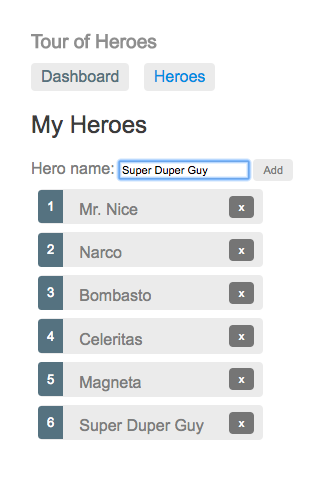
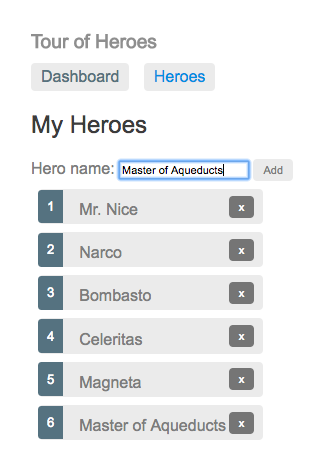
tutorial updates

Changed region(s): [[0.0898, 0.2112, 0.8683, 0.9655], [0.0898, 0.0603, 0.479, 0.181], [0.4491, 0.1207, 0.6287, 0.181]]

diff --git a/source/docs/tut/storing-data.md b/source/docs/tut/storing-data.md
@@ -1,8 +1,35 @@
 # 3. Storing Data in a Database
 
-In the previous exercise, we loaded some heroes into the database our application reads from. Now, we will allow our application to store, delete and modify heroes in the database.
+In the previous exercise, we loaded some heroes into the database our application reads from. Now, we will allow our application to store, delete and modify heroes in the database. Before we embark on this part of the journey, it's important that we understand how an HTTP API is intended to work.
 
-We'll add a method to our `HeroesController` to handle the `POST /heroes` operation. It will add a new row to the heroes table in our database. It will then return that hero in the response body. In `heroes_controller.dart`, add the following operation method:
+## HTTP Resources and Methods
+
+The [HTTP specification](https://tools.ietf.org/html/rfc7231) defines the concept of a *resource*. A resource can be anything - a hero, a bank account, a light switch in your home, a temperature sensor in Antarctica, etc. Some of these things are physical objects (the light switch), and some are digital; they are all still resources. An HTTP server application is an interface to these resources; a client requests that something be done with a resource, and the server finds a way to get it done.
+
+Resources are identified with a URI. A URI *universally identifies* a resource: it has the address of a server to connect to, and a path that identifies the resource on that server. When writing Aqueduct applications, we don't care much about the server part of a URL - the internet figures out that part. What we do care about is the path of the URL - like `/heroes`.
+
+An application use the URL path to determine which resource the request wants to work with. Right now, our application works with hero resources. A request with the path `/heroes/1` wants to do something with an individual hero (that is identified by the number `1`). A request with the path `/heroes` will act on the entire collection of heroes.
+
+These actions are primarily described by the request method (like GET, POST, OR DELETE). Each of these methods has a general meaning that describes an action that can be applied to a resource. For example, a `GET /heroes` means "get me all of the hero resources". The meaning for each of these methods are as follows:
+
+- GET: returns a collection of some resource or an individual resource
+- POST: inserts or appends a resource to a collection of some resource; a representation of the resource is in the request body
+- PUT: replaces a resource with the contents of the request body (or in some cases, replaces the entire collection of some resource)
+- DELETE: deletes a resource (or in some cases, deletes the entire collection of some resource)
+
+It turns out, we can create a lot of incredible behavior by just combining these methods and a request path. More importantly, by following these specifications, client applications can use generic libraries to access any HTTP API with very little effort. This allows us to create complex systems that are easily made available to a browser, mobile phone or any other internet-connected device.
+
+## Inserting Data
+
+We'll start by adding behavior that allows for new heroes to be inserted into the database. Following our previous discussion, the HTTP request must take the form `POST /heroes` - we are appending a new hero to the collection of heroes. This request will contain the JSON representation of a hero in its body, for example:
+
+```json
+{
+  "name": "Master of Aqueducts"
+}
+```
+
+Our `HeroesController` will handle this operation. In general, a single endpoint controller should handle every operation on a resource collection and its individual resources. In `heroes_controller.dart`, add the following operation method:
 
 ```dart
 @Operation.post()
@@ -11,41 +38,76 @@ Future<Response> createHero() async {
   final query = new Query<Hero>(context)
     ..values.name = body['name'];
 
-  final insertedHero = await query.insert(context);
+  final insertedHero = await query.insert();
 
   return new Response.ok(insertedHero);
 }
 ```
 
-From this code, we expect that the request body is:
+This operation method grabs the hero from the request's body, constructs a query that inserts that hero, and then returns it in the response.
 
-```json
-{
-  "name": "Super Duper Programmer"
-}
-```
-
-The use of a `Query<Hero>` is very similar to the previous chapter, except that we populate its `values` property and invoke the `insert()` execution method. Like `where`, the `values` property of a query is an instance of its generic type (`Hero`). Any property of set on `values` will be sent to the database in the insert command. The generated SQL for the above would be something like:
+Using a `Query<Hero>` to insert a row isn't very different than using one to fetch rows. When inserting a row, we execute `query.insert()` instead of `query.fetch()`. Instead of applying matchers to `query.where`, we set the properties of `query.value`. Like `where`, `values` is also an instance of  `Hero`. Each property we set on `values` is sent in an `INSERT` command to the database. The generated SQL for the above would be something like:
 
 ```sql
 INSERT INTO _Hero (name) VALUES ('Hero Name');
 ```
 
-We get the values for the query from the body of the request. (Recall that `request` is a property of all `RESTController` subclasses and it contains the request object currently being handled.) By invoking `asMap()` on `request.body`, we both obtain the request body as a `Map` and also ensure that the body is in fact a `Map` (otherwise, an exception would be thrown and an error response would be sent.)
+The database automatically generates a value for the `id` property of a `Hero`. This is because `id` has a `primaryKey` annotation that marks it as "auto-incrementing". (See [the API reference for Column](https://www.dartdocs.org/documentation/aqueduct/latest/aqueduct/Column-class.html) for details and options.) When the row has been successfully inserted, a new `Hero` object is returned - containing any values that were generated by the database.
 
-!!! note "Autoincrementing Primary Keys"
-    Notice that we don't include an `id` in the query - it will automatically be generated by the database. This is the default behavior when a `ManagedObject<T>` property is annotated with `@primaryKey`. See [modeling data](../db/modeling_data.md) for other options.
+Re-run your application. In the browser application, click on `Heroes` near the top of the page. Then, enter a name into the `Hero name:` field and click `Add`. The new hero will appear. You can re-run the application and that hero will still be available, because it has been stored in the database on your machine.
 
-By default, `insert()` returns the inserted `Hero` object. This is valuable when using auto-incremented primary keys (or any auto-incremented value), because the returned `Hero` now has values for that property provided by the database. Our operation method returns this newly created `Hero` with its `id` in the response body.
+![Insert Hero](../img/run3.png)
 
-## Request Bodies and Body Bindings
+!!! tip "Sub-resources"
+    We mentioned that a single controller should handle every operation for a resource collection and its individual resources. Some resources are complex enough that they can have sub-resources. For example, an organization of heroes (like the X-Men or Fantastic Four) contains heroes, but it might also contain buildings and equipment owned by the organization. The heroes, buildings and equipment are sub-resources of an organization.  Each sub-resource should have its own route and controller instead of trying to shove everything into a single route and controller. See the following code snippet for an example.
 
------
------
------
+```dart
+@override
+Controller get entryPoint {
+  return new Router()
+    ..route("/organizations/[:orgName]")
+      .link(() => new OrganizationController());
+    ..route("/organizations/:orgName/heroes/[:heroID]")
+      .link(() => new OrgHeroesController());
+    ..route("/organizations/:orgName/buildings/[:buildingID]")
+      .link(() => new OrgBuildingController());
+}
+```    
 
-!!! note "Other Content-Types"
-    Aqueduct can decode JSON and form data by default. For other content types, see the [API reference for HTTPCodecRepository](https://www.dartdocs.org/documentation/aqueduct/latest/aqueduct/HTTPCodecRepository-class.html).
+## Request and Response Bodies
+
+So far, we've largely glossed over how request and response bodies are handled, and now is a good time to dig in to this topic.
+
+When we create a response, we specify its status code and optionally its headers and body. For example, the following creates a response with a status code of 200 OK with an empty list body:
+
+```dart
+new Response.ok([])
+```
+
+The first argument to `Response.ok` is a *body object*. When the response is sent to a client, the body object is encoded according to the `contentType` of the response. By default, the content type of a response is `application/json` - so by default, all of our response body objects have been JSON-encoded into the response body.
+
+!!! note "Other Response Constructors"
+    The default constructor for a `Response` takes a status code, map of headers and a body object - e.g., `Response(200, {}, "body")`. There are many named constructors for `Response`, like `Response.ok` or `Response.notFound`. These constructors set the status code and expose parameters that are intended for that type of response. For example, a 200 OK response should have a body, so `Response.ok` has a required body object argument. See [the API reference for Response](https://www.dartdocs.org/documentation/aqueduct/latest/aqueduct/Response-class.html) for possible constructors and properties of a response.
+
+As long as an object can be JSON encoded, it can be the body object of a response with JSON content-type. In general, this includes objects that are strings, integers, doubles, and maps and lists that contain those types (you can verify if your object is encodable by invoking `JSON.encode` from `dart:convert`).
+
+To change how a body object is encoded, you set the `contentType` of the response. For example,
+
+```dart
+new Response.ok([])
+  ..contentType = new ContentType("application", "xml");
+```
+
+The default supported content types are JSON, `application/x-www-form-urlencoded` and all `text/*` types. To encode other content-types, you must register a `Codec` with `HTTPCodecRepository.`
+
+These codecs are are also responsible for decoding request bodies. The body of a request is accessible through the `Request.body` property.
+
+----
+----
+----
+
+It also includes types that implement `HTTPSerializable`, which `ManagedObject<T>` does.
+
 
 
 

diff --git a/source/docs/tut/getting-started.md b/source/docs/tut/getting-started.md
@@ -1,7 +1,5 @@
 # 1. Getting Started
 
-### Purpose: Become familiar with how Aqueduct works by building an application.
-
 By the end of this tutorial, you will have created an Aqueduct application that serves fictional heroes from a PostgreSQL database. You will learn the following:
 
 - Run an Aqueduct application
@@ -46,8 +44,8 @@ In IntelliJ's project view, locate the `lib` directory; this is where your proje
 
 In your browser, navigate to [http://aqueduct-tutorial.stablekernel.io](http://aqueduct-tutorial.stablekernel.io). This browser application is a 'Hero Manager' - it allows a user to view, create, delete and update heroes. (It is a slightly modified version of the [AngularDart Tour of Heroes Tutorial](https://webdev.dartlang.org/angular/tutorial).) It will make HTTP requests to `http://localhost:8888` to fetch and manipulate hero data. The application you will build in this tutorial respond to those requests.
 
-!!! warning "HTTP vs HTTPS"
-    The browser application is served over HTTP so that it can access your Aqueduct application when it runs locally on your machine. Your browser may warn you about navigating to an insecure webpage, because it is in fact insecure. You can view the code for this browser application [here](https://github.com/stablekernel/tour-of-heroes-dart). You can run the browser application yourself if you are concerned about that.
+!!! warning "Running the Browser Application Locally"
+    The browser application is served over HTTP so that it can access your Aqueduct application when it runs locally on your machine. Your browser may warn you about navigating to an insecure webpage, because it is in fact insecure. You can view the code for this browser application [here](https://github.com/stablekernel/tour-of-heroes-dart) so that you can run the browser application from your local machine if you prefer.
 
 In this first chapter, you will write code to handle two requests: one to get a list of heroes, and the other to get a single hero by its identifier. These two requests take the following form:
 
@@ -62,7 +60,7 @@ Controllers are linked together in an *application channel*. An application chan
 
 ![ApplicationChannel entryPoint](../img/entrypoint.png)
 
-Application channels are defined by creating a subclass of `ApplicationChannel`. This subclass is declared in `lib/channel.dart`. Navigate to that file and notice the implementation of `entryPoint`:
+Application channels are defined by creating a subclass of `ApplicationChannel`. This subclass is declared in `lib/channel.dart`. Navigate to that file and note the current implementation of `ApplicationChannel.entryPoint`:
 
 ```dart
   @override
@@ -79,7 +77,7 @@ Application channels are defined by creating a subclass of `ApplicationChannel`.
   }
 ```
 
-The `entryPoint` of a channel is the first controller to receive every request in an application. In our case, the entry point is a `Router` (because we return it from this method). Controllers are linked to the router. The template has one linked function controller that is called when a request's path is `/example`. We need to link a yet-to-be-created `HeroesController` to the router when the path is `/heroes`.
+The `entryPoint` of a channel is the first controller to receive every request in an application. In our case, the entry point is a `Router` (because we return it from this method). Controllers are linked to the router; the template has one linked function controller that is called when a request's path is `/example`. We need to link a yet-to-be-created `HeroesController` to the router when the path is `/heroes`.
 
 First, we need to define `HeroesController` and how it handles requests. Create a new file in `lib/controller/heroes_controller.dart` and add the following code (you may need to create the subdirectory `lib/controller/`):
 
@@ -225,7 +223,7 @@ Future<RequestOrResponse> handle(Request request) async {
       return new Response.notFound();
     }
 
-    return new Response.ok(heroes[index]);
+    return new Response.ok(hero);
   }
 
   return new Response.ok(heroes);

diff --git a/source/docs/tut/executing-queries.md b/source/docs/tut/executing-queries.md
@@ -6,7 +6,7 @@ We will continue to build on the last chapter's project, `heroes`, by storing ou
 
 A relational database management system (like PostgreSQL or MySQL) stores its data in the form of tables. A table represents some sort of entity - like a person or a bank account. Each table has columns that describe the attributes of that entity - like a name or a balance. Every row in a table is an instance of that entity - like a single person named Bob or a bank account.
 
-In an object-oriented framework like Aqueduct, we have representations for tables, columns and rows. A class represents a table, its instances are rows, and properties are column value for a row. An ORM translates rows in a database to and from objects in an application.
+In an object-oriented framework like Aqueduct, we have representations for tables, columns and rows. A class represents a table, its instances are rows, and instance properties are column values. An ORM translates rows in a database to and from objects in an application.
 
 | Aqueduct | Database | Example #1 | Example #2 |
 |-|-|-|-|
@@ -19,7 +19,7 @@ In Aqueduct, each database table-class pairing is called an *entity*. Collective
 Building a Data Model
 ---
 
-In our `heroes` application, we have one type of entity - a "hero". To create a new entity, we subclass `ManagedObject<T>`. Create a new directory `lib/model/` and then add a new file to this directory named `hero.dart`. Add the following code:
+In our `heroes` application, we will have one type of entity - a "hero". To create a new entity, we subclass `ManagedObject<T>`. Create a new directory `lib/model/` and then add a new file to this directory named `hero.dart`. Add the following code:
 
 ```dart
 import 'package:heroes/heroes.dart';
@@ -88,7 +88,7 @@ The context will coordinate with these two objects to execute queries and transl
 In `heroes_controller.dart`, add a property and create a new constructor:
 
 ```dart
-class HeroesController {
+class HeroesController extends RESTController {
   HeroesController(this.context);
 
   final ManagedContext context;
@@ -129,7 +129,7 @@ Executing Queries
 
 Our operation methods in `HeroesController` currently return heroes from an in-memory list. To fetch data from a database instead of this list, we create and execute instances of `Query<T>` in our `ManagedContext`.
 
-Let's start by replacing `getAllHeroes` in `heroes_controller.dart`. Make sure to import your `heroes.dart` file at the top:
+Let's start by replacing `getAllHeroes` in `heroes_controller.dart`. Make sure to import your `model/hero.dart` file at the top:
 
 ```dart
 import 'package:heroes/heroes.dart';
@@ -266,8 +266,7 @@ Re-run your application with `aqueduct serve`. Then, reload [http://aqueduct-tut
 !!! warning "ManagedObjects and Migration Scripts"
     In our migration's `seed()` method, we executed SQL queries instead of using the Aqueduct ORM. *It is very important that you do not use* `Query<T>`, `ManagedObject<T>` or other elements of the Aqueduct ORM in migration files. Migration files represent an ordered series of historical steps that describe your database schema. If you replay those steps (which is what executing a migration file does), you will end up with the same database schema every time. However, a `ManagedObject<T>` subclass changes over time - the definition of a managed object is not historical, it only represents the current point in time. Since a `ManagedObject<T>` subclass can change, using one in our migration file would mean that our migration file could change.
 
-The more you know: Query Parameters and HTTP Headers
----
+## Query Parameters and HTTP Headers
 
 In the browser application, the dashboard has a text field for searching heroes. When you enter text into it, it will send the search term to the server by appending a query parameter to `GET /heroes`. For example, if you entered the text `abc`, it'd make this request:
 
